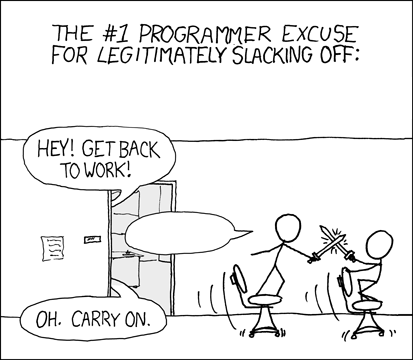
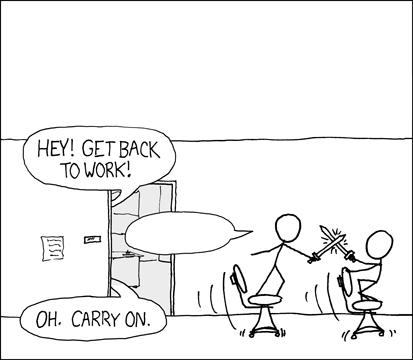
switch to hug to display image

Changed region(s): [[0.1162, 0.0611, 0.8717, 0.1833]]

diff --git a/app.py b/app.py
@@ -1,79 +1,86 @@
+"""
+XKCD Excuse Generator API created using Hug Framework
+"""
+
 from io import BytesIO
-import os
 
+import hug
 from PIL import Image, ImageDraw, ImageFont
-from flask import Flask, send_file
-from flask import request
-
-app = Flask(__name__)
-
-dir_path = os.path.dirname(os.path.realpath(__file__))
 
 
-@app.route('/blank', methods=['GET'])
-def blank():
+# blank image view
+
+
+# api view
+# GET https://function.xkcd-excuse.com/api/v1/?who=one&why=two&what=three
+# >>
+# {
+#     "errors": {
+#         "code": 1001,
+#         "text": "first text two long"  // možda onda imati validaciju pokraj inputa
+#     }
+#     "data": {
+#         "who": "one",
+#         "why": "two",
+#         "what": "three",
+#         "image_url": "function.xkcd-excuse.com/media/<hash>.png"
+#     }
+# }
+
+
+# media image view that displays image directly (.png extension)
+# TODO - isprobati ako je minus u textu? dal se isto ok enkodira u hex?
+@hug.local()
+@hug.get(
+    '/media/{who}-{why}-{what}',
+    # versions=1,
+    output=hug.output_format.png_image,
+    examples='/'
+)
+def img(who: hug.types.text, why: hug.types.text, what: hug.types.text):
     """
-    Serves blank image.
+    Serve image to user
     """
-    with open(os.path.join(dir_path, 'blank_excuse.png'), 'rb') as buffer:
-        return send_file(BytesIO(buffer.read()), mimetype='image/png')
+    # TODO better text sanitizing
+    who = 'The #1  {} excuse'.format(who).upper()
+    legit = 'for legitimately slacking off:'.upper()
+    why = why.upper()
+    what = '{}!'.format(what).upper()
 
-
-@app.route('/', methods=['GET'])
-def root():
-    """
-    If `first_text` and `second_text` are sent as GET parameters those text
-    will be written on a blank XKCD excuse image.
-
-    This needs a LOT of work. Created in a rush without any proper thought
-    given about code quality :'(
-    """
-    first_text = request.args.get('first_text')
-    second_text = request.args.get('second_text')
-
-    if not first_text or not second_text:
-        # TODO
-        example_url = '{}?first_text=my%20function%20is%20uploading%20to%20aws&second_text=uploading'.format(request.url)
-        return (
-            'Usage: just add GET parameters `first_text` and `second_text` with desired text to the current URL ;)'
-            '<br/><br/><br/> ie. &nbsp;'
-            '<a href="{0}">{0}</a>'.format(example_url)
-        )
-
-    first_text = '"{}"'.format(first_text.upper())
-    second_text = '{}!'.format(second_text.strip('!').upper())
-
-    # in the beginning this is an empty image
-    image = Image.open(os.path.join(dir_path, 'blank_excuse.png'), 'r')\
-        .convert('RGBA')
+    # ovo je prazna slika, ak se `blank_image` pozove ko zadnji element u skripti, pokaže sliku
+    image = Image.open("blank_excuse.png", "r").convert('RGBA')
 
     size = width, height = image.size
     draw = ImageDraw.Draw(image, 'RGBA')
-    first_font = ImageFont.truetype(os.path.join(dir_path, 'xkcd-script.ttf'), 22)
-    second_font = ImageFont.truetype(os.path.join(dir_path, 'xkcd-script.ttf'), 20)
 
-    if first_font.getsize(first_text)[0] > width:
-        return 'First text too long'
+    who_font = ImageFont.truetype("xkcd-script.ttf", 24)
+    legit_font = ImageFont.truetype("xkcd-script.ttf", 24)
+    why_font = ImageFont.truetype("xkcd-script.ttf", 22)
+    what_font = ImageFont.truetype("xkcd-script.ttf", 20)
 
-    if second_font.getsize(second_text)[0] > 100:
-        return 'Second text too long'
+    # Y text coordinates are constant
+    WHO_TEXT_Y = 12
+    LEGIT_TEXT_Y = 38
+    WHY_TEXT_Y = 85
+    WHAT_TEXT_Y = 220
 
-    # Y coordinates are constant
-    FIRST_TEXT_Y = 85
-    SECOND_TEXT_Y = 220
+    # X text coordinates are calculated
+    who_text_x = width - (width/2 + who_font.getsize(who)[0]/2)
+    legit_text_x = width - (width/2 + legit_font.getsize(legit)[0]/2)
+    why_text_x = width - (width/2 + why_font.getsize(why)[0]/2)
+    what_text_x = width - (width/2 + what_font.getsize(what)[0]/2) - 25
 
-    first_text_x = width - (width / 2 + first_font.getsize(first_text)[0] / 2)
-    second_text_x = width - (width / 2 + second_font.getsize(second_text)[0] / 2) - 25
-
-    draw.text((first_text_x, FIRST_TEXT_Y), first_text, fill=(0, 0 ,0 ,200), font=first_font)
-    draw.text((second_text_x, SECOND_TEXT_Y), second_text, fill=(0, 0, 0, 200), font=second_font)
+    draw.text((who_text_x, WHO_TEXT_Y), who, fill=(0, 0 ,0 ,200), font=who_font)
+    draw.text((legit_text_x, LEGIT_TEXT_Y), legit, fill=(0, 0 ,0 ,200), font=legit_font)
+    draw.text((why_text_x, WHY_TEXT_Y), why, fill=(0, 0 ,0 ,200), font=why_font)
+    draw.text((what_text_x, WHAT_TEXT_Y), what, fill=(0, 0, 0, 200), font=what_font)
 
     buffer = BytesIO()
-    image.save(buffer, format="PNG", quality=85, optimize=True)
-    buffer.seek(0)
-
-    return send_file(buffer, mimetype='image/png')
+    image.save(buffer, format="png")
+    return image
 
 
-if __name__ == "__main__":
-    app.run(host='0.0.0.0')
+# _decode_hex(*texts)
+
+
+# _encode_hex(*texts)
